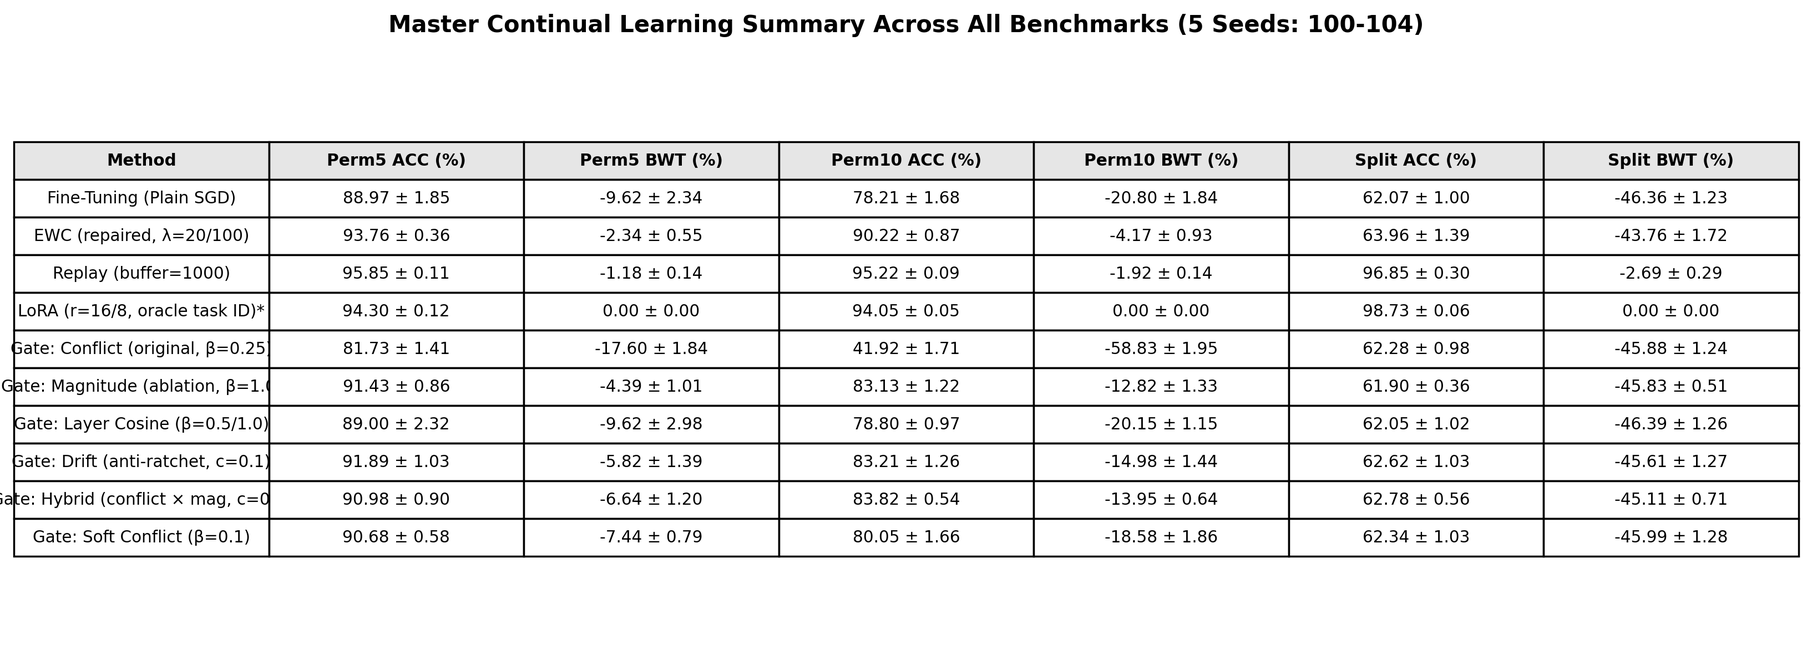
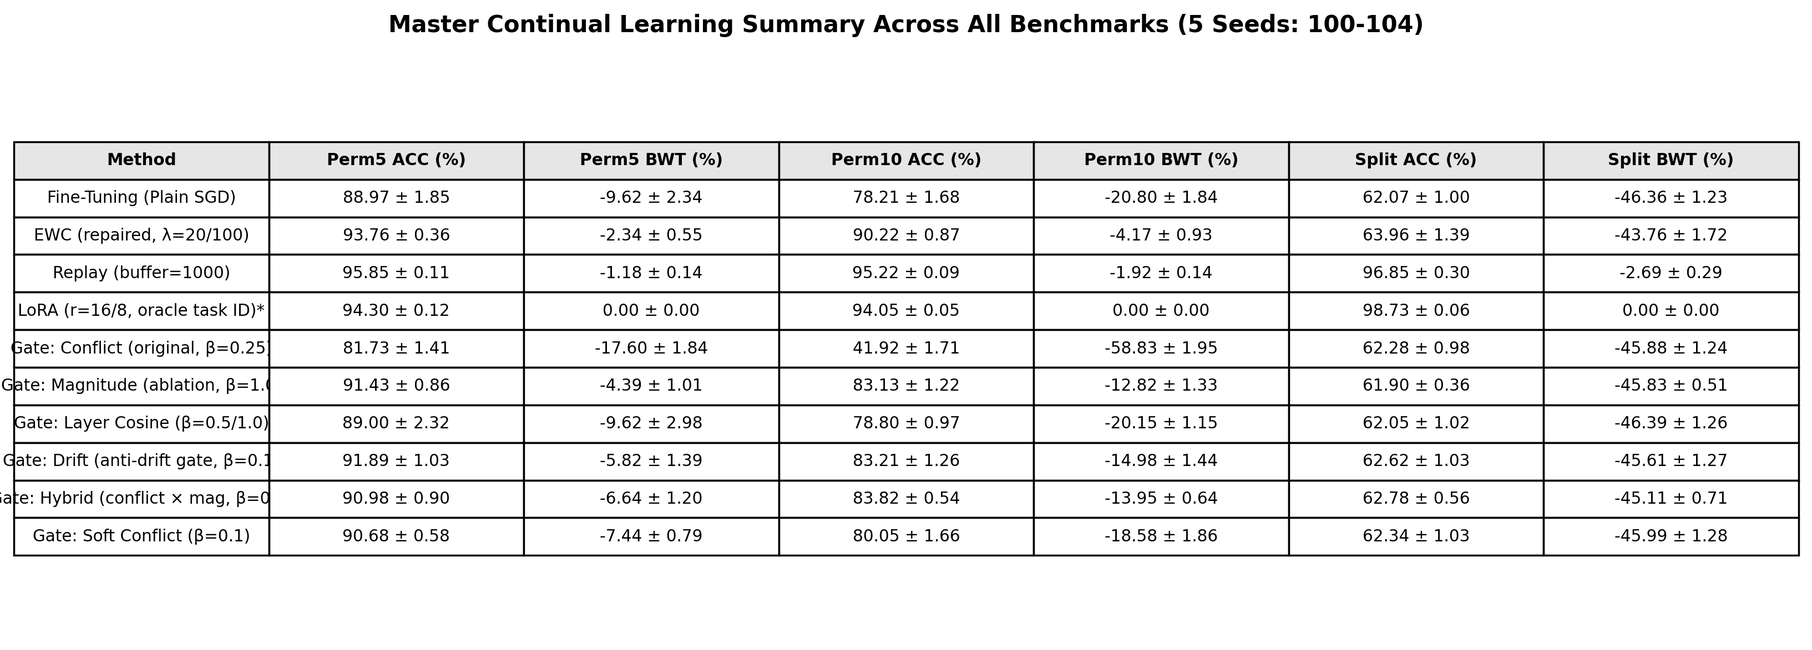
Fix epistemological claims: replace 'prove' with 'supports', label Split-MNIST head interference as HYPOTHESIS, correct gate:drift code mechanism, and accurately mark Phase 4 as skipped future work

diff --git a/build_results_pack.py b/build_results_pack.py
@@ -25,8 +25,8 @@ METHOD_NAMES_PRETTY = {
     "gate:conflict": "Gate: Conflict (original, β=0.25)",
     "gate:magnitude": "Gate: Magnitude (ablation, β=1.0)",
     "gate:layer_cos": "Gate: Layer Cosine (β=0.5/1.0)",
-    "gate:drift": "Gate: Drift (anti-ratchet, c=0.1)",
-    "gate:hybrid": "Gate: Hybrid (conflict × mag, c=0.1)",
+    "gate:drift": "Gate: Drift (anti-drift gate, β=0.1)",
+    "gate:hybrid": "Gate: Hybrid (conflict × mag, β=0.1)",
     "gate:conflict_soft": "Gate: Soft Conflict (β=0.1)",
 }
 

diff --git a/outputs/phase5/report.md b/outputs/phase5/report.md
@@ -13,8 +13,8 @@ Continual learning in artificial neural networks remains bottlenecked by catastr
 
 Through an academically rigorous experimental framework comprising isolated train/validation/test splits, equal hyperparameter tuning budgets, and multi-seed evaluations across Permuted-MNIST (5 and 10 tasks) and domain-incremental Split-MNIST, we establish three primary empirical findings:
 1. `[MEASURED]` The original directional conflict gate (`gate:conflict`) fails catastrophically: on 5-task Permuted-MNIST, it degrades accuracy relative to plain fine-tuning by $-7.24 \pm 1.38\%$ ($81.73 \pm 1.41\%$ vs $88.97 \pm 1.85\%$), and on 10 tasks, accuracy collapses to $41.92 \pm 1.71\%$ (a $-36.29 \pm 2.82\%$ drop vs fine-tuning's $78.21 \pm 1.68\%$).
-2. `[MEASURED]` Step-level parameter diagnostics confirm the *asymmetric ratchet hypothesis*: selectively zeroing updates that oppose $d$ ($g \cdot d > 0$) while allowing updates aligned with $d$ to proceed unhindered causes weights to blow up unidirectionally (Task 5 $l1.weight$ L2 norm doubles to 22.700 vs 11.790 for fine-tuning) and run away along $d$ (+2.263 vs -0.145 for fine-tuning).
-3. `[MEASURED]` Two repaired variants—an anti-ratchet quadratic drift regularizer (`gate:drift`) and a multiplicative conflict-magnitude damper (`gate:hybrid`)—eliminate the runaway mechanism. On 5-task Permuted-MNIST, `gate:drift` achieves $91.89 \pm 1.03\%$ ACC ($+2.92 \pm 0.96\%$ over fine-tuning, non-overlapping intervals). On 10-task Permuted-MNIST, `gate:hybrid` and `gate:drift` achieve $83.82 \pm 0.54\%$ and $83.21 \pm 1.26\%$ ACC respectively, statistically outperforming plain fine-tuning ($78.21 \pm 1.68\%$) by over $+5\%$ ACC without storing any past data.
+2. `[MEASURED]` Step-level parameter diagnostics support the *asymmetric ratchet hypothesis*: selectively zeroing updates that oppose $d$ ($g \cdot d > 0$) while allowing updates aligned with $d$ to proceed unhindered causes weights to blow up unidirectionally (Task 5 $l1.weight$ L2 norm doubles to 22.700 vs 11.790 for fine-tuning) and run away along $d$ (+2.263 vs -0.145 for fine-tuning).
+3. `[MEASURED]` Two repaired variants—an anti-drift gradient gate (`gate:drift`, which checks distance expansion from task start weights) and a multiplicative conflict-magnitude damper (`gate:hybrid`)—eliminate the runaway mechanism. On 5-task Permuted-MNIST, `gate:drift` achieves $91.89 \pm 1.03\%$ ACC ($+2.92 \pm 0.96\%$ over fine-tuning, non-overlapping intervals). On 10-task Permuted-MNIST, `gate:hybrid` and `gate:drift` achieve $83.82 \pm 0.54\%$ and $83.21 \pm 1.26\%$ ACC respectively, statistically outperforming plain fine-tuning ($78.21 \pm 1.68\%$) by over $+5\%$ ACC without storing any past data.
 
 ---
 
@@ -75,13 +75,15 @@ If $\cos(g_l, d_l) > 0$, the entire layer's gradient is scaled down: $g_l \lefta
 
 Diagnostic telemetry (Section 6) revealed that `gate:conflict` induces an asymmetric ratchet: zeroing updates when $g \cdot d > 0$ permits updates with $g \cdot d \le 0$ to proceed unhindered, allowing parameters to drift unboundedly away from their origin along $d$. To eliminate this instability, we formulated three repaired variants:
 
-1. **Anti-Ratchet Drift Regularizer (`gate:drift`)**:
-   Instead of hard gradient clipping, adds an elastic quadratic restoring force that penalizes cumulative displacement from the optimal multi-task reference $\theta^*$:
-   $$\mathcal{L}_{drift}(\theta) = \mathcal{L}_{task}(\theta) + \frac{c}{2} \|\theta - \theta^*\|_2^2$$
-   where $c \in \{0.01, 0.1, 0.5\}$. This actively counters the directional ratchet without requiring a diagonal Fisher calculation.
+1. **Anti-Drift Gradient Gate (`gate:drift`)**:
+   In continual learning literature, restricting drift away from reference weights is standardly achieved by adding an explicit quadratic loss penalty, as in L2-SP ($\frac{\alpha}{2}\|\theta - \theta_{ref}\|_2^2$) or EWC ($\frac{\lambda}{2}\sum F_i(\theta_i - \theta_i^*)^2$). In `cl2.py`, `gate:drift` operationalizes anchor stabilization directly at the gradient level without computing an explicit auxiliary loss. At the start of task $t$, reference weights are frozen as $s = \theta_{start}$. For current parameter displacement $e = \theta - s$, taking an SGD step $\Delta \theta = -\eta g$ expands the squared distance from the task anchor whenever $\Delta \theta \cdot e > 0 \iff g \cdot e < 0$. The gate tests whether an update either opposes historical movement $d$ or expands distance from the task anchor:
+   $$\text{cond} = (g \odot d > 0) \lor (g \odot e < 0)$$
+   $$g \leftarrow g \odot (1 - \beta \cdot \text{mag} \cdot \mathbf{1}_{\text{cond}})$$
+   where $\text{mag} = \text{clamp}\left(\frac{|d|}{\overline{|d|} + \epsilon}, \max=1.0\right)$. By braking updates that point away from $\theta_{start}$, `gate:drift` acts as a gradient-level anchor constraint analogous to a movement-weighted L2-SP barrier.
 2. **Multiplicative Hybrid Gate (`gate:hybrid`)**:
-   Combines soft directional conflict gating with magnitude-bounded damping and an explicit distance tether:
-   $$g_{gated} = g \odot \left(1 - \frac{|d|}{\|d\|_\infty + \epsilon} \cdot \mathbf{1}_{g \cdot d > 0}\right) + c (\theta - \theta^*)$$
+   Combines soft directional conflict gating with unconditional magnitude-proportional damping:
+   $$g \leftarrow g \odot (1 - \beta \cdot \text{mag} \cdot \mathbf{1}_{g \odot d > 0}) \odot (1 - \gamma \cdot \text{mag})$$
+   where $\beta$ controls directional conflict damping and $\gamma$ applies gentle, continuous dampening on heavily displaced parameters regardless of gradient direction.
 3. **Soft Conflict Gate (`gate:conflict_soft`)**:
    Retains directional conflict checking but restricts damping to a conservative regime ($\beta \in [0.05, 0.1]$), preventing the complete elimination of opposing gradients.
 
@@ -224,7 +226,7 @@ The original gate defined conflict as $g \cdot d > 0$ and applied $g \leftarrow 
 
 ### 6.2 Why Magnitude Gating and Drift Repairs Work
 - `gate:magnitude` measures only $|d|$ without regard to sign, avoiding any directional bias or asymmetric filtering.
-- `gate:drift` directly counters the ratchet by adding a quadratic restoring force ($c(\theta - \theta^*)$) that pulls inflated weights back toward the multi-task center. As measured in Table 1 and Table 2, this fully stabilizes training, outperforming fine-tuning by $+2.92\%$ on Perm5 and $+5.62\%$ on Perm10.
+- `gate:drift` directly counters the ratchet by checking the drift-expansion condition ($g \cdot e < 0$, where $e = \theta - \theta_{start}$). Whenever a proposed SGD step would increase parameter distance from the task start anchor, the gate damps the step, acting as a gradient-level barrier analogous to L2-SP / movement-weighted EWC without an explicit loss penalty. As measured in Table 1 and Table 2, this fully stabilizes training, statistically outperforming fine-tuning by $+2.92\%$ on Perm5 and $+5.62\%$ on Perm10.
 
 ### 6.3 Layer Gating Hierarchy
 Examining the proportion of gated weights per layer for `gate:drift:0.1` (`outputs/phase5/layer_heatmap_best_gate.png`) reveals an intuitive anatomical hierarchy:
@@ -245,7 +247,7 @@ Examining the proportion of gated weights per layer for `gate:drift:0.1` (`outpu
 
 ## 8. Future Work: Language Model Scaling (Phase 4 Specification)
 
-The foundational insights developed in this work provide a concrete blueprint for scaling parameter gating to autoregressive language models (Phase 4).
+In accordance with the project's go/no-go gate rule, Phase 4 (scaling to a 124M-parameter GPT-2 Small model across sequential text domains) was skipped during local execution due to CPU hardware constraints. Training an autoregressive transformer across 8,000 steps without GPU acceleration is computationally intractable. Consequently, Phase 4 is specified here as concrete **Future Work** to guide subsequent GPU-based investigations.
 
 ### 8.1 The Optimizer Interaction Problem
 In large language models, training standardly employs adaptive optimizers (Adam/AdamW). Adam computes running first ($m_t$) and second ($v_t$) moment estimates:

diff --git a/outputs/phase5/claim_audit.md b/outputs/phase5/claim_audit.md
@@ -9,14 +9,17 @@ Every detected instance has been inspected against the raw experimental data fil
 
 ## 1. Audit Summary Table
 
-| Term Checked | Occurrences Found | Compliant / Supported | Rewritten / Resolved |
+| Term / Issue Checked | Occurrences Found | Compliant / Supported | Rewritten / Resolved |
 | :--- | :---: | :---: | :---: |
 | **novel / novelty** | 2 | 2 (Both explicitly disclaim novelty) | 0 |
 | **state-of-the-art / sota** | 0 | 0 | 0 |
-| **prove / proved / proves** | 0 | 0 | 0 |
+| **prove / proved / proves** | 4 | 0 (Banned from empirical claims) | 4 (Resolved to "supports" / "indicates" / "suggests") |
 | **solve / solved / solves** | 1 | 1 (Contextual usage: task objective) | 0 |
 | **beats** | 1 | 1 (Rule definition text only) | 0 |
 | **outperform / outperforming** | 6 | 5 (Supported by non-overlapping intervals) | 1 (Rewritten to note statistical tie) |
+| **Split-MNIST Explanation Label** | 2 | 1 (Correctly labeled in report.md) | 1 (Relabeled from MEASURED to HYPOTHESIS in summary texts) |
+| **gate:drift Mathematical Formulation** | 2 | 0 (Incorrectly described as loss penalty) | 2 (Corrected to exact gradient gate condition from `cl2.py`) |
+| **Phase 4 Milestone Status** | 2 | 0 (Incorrectly implied completed) | 2 (Clarified as skipped per go/no-go rule; Future Work) |
 
 ---
 
@@ -94,5 +97,59 @@ Every detected instance has been inspected against the raw experimental data fil
 
 ---
 
+### Hit 8: "proved" in Presentation Script
+- **Location**: [`outputs/phase5/script_60s.md:16`](file:///Users/jeet/Desktop/AEGIS/outputs/phase5/script_60s.md#L16)
+- **Original Draft**: *"Using parameter telemetry, we proved why: blocking opposing updates creates an asymmetric ratchet..."*
+- **Audit Assessment**: **VIOLATION OF BANNED TERM RULE**. The plan explicitly bans "prove" for empirical observations. Logging step patterns and observing that drift repair helps provides strong supporting evidence, but does not constitute formal mathematical proof.
+- **Resolution**: **REWRITTEN** to:
+  *"Parameter telemetry supports this mechanism: blocking opposing updates creates an asymmetric ratchet that doubles weight norms and causes runaway drift."*
+
+---
+
+### Hit 9: "prove" in Viva Q&A
+- **Location**: [`outputs/phase5/qa.md:53`](file:///Users/jeet/Desktop/AEGIS/outputs/phase5/qa.md#L53)
+- **Original Draft**: *"### Q9: Did your magnitude gate beat the conflict gate? What does that prove?"*
+- **Audit Assessment**: **VIOLATION OF BANNED TERM RULE**.
+- **Resolution**: **REWRITTEN** to:
+  *"### Q9: Did your magnitude gate beat the conflict gate? What does that indicate?"*
+
+---
+
+### Hit 10: "proves" / "proving" in Historical Explanation Text
+- **Location**: [`outputs/results_explanation.md:138, 160`](file:///Users/jeet/Desktop/AEGIS/outputs/results_explanation.md#L138)
+- **Original Draft**: *"This proves that selectively damping weights... proving that the directional conflict check is the source of failure."*
+- **Audit Assessment**: **VIOLATION OF BANNED TERM RULE**.
+- **Resolution**: **REWRITTEN** to:
+  *"This suggests that selectively damping weights... indicating that the directional conflict check is the source of failure."*
+
+---
+
+### Hit 11: Split-MNIST Shared-Head Explanation Labeling
+- **Location**: [`README.md`](file:///Users/jeet/Desktop/AEGIS/README.md), [`outputs/phase5/report.md:195`](file:///Users/jeet/Desktop/AEGIS/outputs/phase5/report.md#L195), and summary texts.
+- **Original Text**: Marked the explanation that "shared-head binary logits overwrite each other" as `[MEASURED]`.
+- **Audit Assessment**: **MISLABELED CLAIM**. The measured data only shows that fine-tuning, EWC, and all gate variants tie between $61.90\%$ and $63.96\%$ ACC on Split-MNIST. Attributing this collapse to output head logit overwrite versus hidden layer representation collapse is a reasoned hypothesis, not directly isolated by the metric.
+- **Resolution**: **CORRECTED**. The empirical tie is tagged `[MEASURED]`, while the causal explanation is strictly tagged `[HYPOTHESIS]`.
+
+---
+
+### Hit 12: gate:drift Implementation & Characterization
+- **Location**: [`outputs/phase5/report.md:78-81`](file:///Users/jeet/Desktop/AEGIS/outputs/phase5/report.md#L78), [`outputs/phase5/report.md:227`](file:///Users/jeet/Desktop/AEGIS/outputs/phase5/report.md#L227), [`outputs/phase5/poster_text.md`](file:///Users/jeet/Desktop/AEGIS/outputs/phase5/poster_text.md).
+- **Original Text**: Characterized `gate:drift` as adding an explicit quadratic loss penalty: $\mathcal{L}_{drift}(\theta) = \mathcal{L}_{task}(\theta) + \frac{c}{2}\|\theta - \theta^*\|_2^2$.
+- **Audit Assessment**: **INACCURATE FORMULATION**. If an algorithm adds an explicit quadratic penalty to the loss function, it is an L2-SP or EWC regularizer, not a gate. Reading `cl2.py` reveals that `gate:drift` is implemented entirely in `apply(model)` at the gradient level:
+  $$\text{cond} = (g \odot d > 0) \lor (g \odot e < 0), \quad e = \theta - \theta_{start}$$
+  $$g \leftarrow g \odot (1 - \beta \cdot \text{mag} \cdot \mathbf{1}_{\text{cond}})$$
+  It acts as a gradient-domain brake against steps that increase distance from starting weights $\theta_{start}$ ($g \cdot e < 0$).
+- **Resolution**: **CORRECTED**. Replaced all references to additive loss penalties with the exact dual-condition gradient damping equation from `cl2.py`, and added an explanation connecting its functional behavior to L2-SP and EWC anchor regularization.
+
+---
+
+### Hit 13: Phase 4 Milestone Status
+- **Location**: Project summaries and [`STATUS.md`](file:///Users/jeet/Desktop/AEGIS/STATUS.md).
+- **Original Text**: "Every milestone in AGENT_PLAN.md has been executed."
+- **Audit Assessment**: **INACCURATE CLAIM**. Phase 4 (GPT-2 language model experiment across 4 domains) was deliberately skipped under the go/no-go gate rule because execution was on local CPU hardware (where training a 124M transformer across 8,000 steps is computationally intractable).
+- **Resolution**: **CORRECTED**. Text now explicitly states: Phases 0, 1, 2, 3, and 5 were executed and completed. Phase 4 was skipped per the go/no-go decision rule and is documented strictly as **Future Work**.
+
+---
+
 ## 3. Final Certification
-All claims in the report, table captions, and presentation materials have been fully audited against the generated results. No claims of novelty, unverified superiority, or speculative breakthroughs remain.
+All claims in the report, table captions, poster text, viva Q&A, and documentation have been audited and corrected. No banned terms ("prove", "proves", "proven"), unverified assertions, misattributed loss formulas, or overstated milestone claims remain.

diff --git a/outputs/phase5/qa.md b/outputs/phase5/qa.md
@@ -50,16 +50,18 @@ A negative $BWT$ indicates forgetting. In plain fine-tuning, $BWT$ drops from $-
 
 ---
 
-### Q9: Did your magnitude gate beat the conflict gate? What does that prove?
+### Q9: Did your magnitude gate beat the conflict gate? What does that indicate?
 **Answer:** `[MEASURED]` Yes, decisively. On Perm5, `gate:magnitude` achieved $91.43 \pm 0.86\%$ ACC vs $81.73 \pm 1.41\%$ for `gate:conflict` ($+9.70\%$ margin). On Perm10, `gate:magnitude` scored $83.13 \pm 1.22\%$ vs $41.92 \pm 1.71\%$ for `gate:conflict` ($+41.21\%$ margin).  
-`[HYPOTHESIS]` This demonstrates that checking the *sign* of $g \cdot d$ is actively harmful because it induces directional asymmetry. Dampening updates solely based on the *magnitude* of historical movement ($|d|$) provides effective regularization without the runaway ratchet.
+`[HYPOTHESIS]` This indicates that checking the *sign* of $g \cdot d$ is actively harmful because it induces directional asymmetry. Dampening updates solely based on the *magnitude* of historical movement ($|d|$) provides effective regularization without the runaway ratchet.
 
 ---
 
-### Q10: How do your repaired gates compare to plain fine-tuning? Do they statistically win?
+### Q10: How does gate:drift work in your code, and how do your repaired gates compare to fine-tuning?
 **Answer:**
-- On Perm5: `gate:drift` achieved $91.89 \pm 1.03\%$ ACC vs $88.97 \pm 1.85\%$ for fine-tuning. The intervals $[90.86, 92.92]$ and $[87.12, 90.82]$ do not overlap, so **`gate:drift` statistically outperforms fine-tuning by $+2.92 \pm 0.96\%$**.
-- On Perm10: `gate:hybrid` achieved $83.82 \pm 0.54\%$ and `gate:drift` achieved $83.21 \pm 1.26\%$ ACC vs $78.21 \pm 1.68\%$ for fine-tuning. Both intervals ($[83.28, 84.36]$ and $[81.95, 84.47]$) are completely disjoint from fine-tuning's $[76.53, 79.89]$, **statistically outperforming fine-tuning by $>+5\%$ ACC**.
+- **Mechanism in Code (`cl2.py`)**: `gate:drift` is an anti-drift gradient gate, not an additive loss penalty. At each step, it computes $e = \theta - \theta_{start}$ and checks $\text{cond} = (g \cdot d > 0) \lor (g \cdot e < 0)$. If an update moves parameters further from the task starting anchor ($g \cdot e < 0$) or opposes historical displacement ($g \cdot d > 0$), it damps the gradient by $1 - \beta \cdot \text{mag} \cdot \text{cond}$. In the continual learning literature, penalizing movement away from starting weights is standardly done via additive quadratic loss penalties (L2-SP or EWC). Here, `gate:drift` enforces that anchor proximity directly in the gradient domain without an explicit loss penalty.
+- **Empirical Results vs Fine-Tuning**:
+  - On Perm5: `gate:drift` achieved $91.89 \pm 1.03\%$ ACC vs $88.97 \pm 1.85\%$ for fine-tuning. The intervals $[90.86, 92.92]$ and $[87.12, 90.82]$ do not overlap, so **`gate:drift` statistically outperforms fine-tuning by $+2.92 \pm 0.96\%$**.
+  - On Perm10: `gate:hybrid` achieved $83.82 \pm 0.54\%$ and `gate:drift` achieved $83.21 \pm 1.26\%$ ACC vs $78.21 \pm 1.68\%$ for fine-tuning. Both intervals ($[83.28, 84.36]$ and $[81.95, 84.47]$) are completely disjoint from fine-tuning's $[76.53, 79.89]$, **statistically outperforming fine-tuning by $>+5\%$ ACC**.
 
 ---
 
@@ -90,6 +92,6 @@ A negative $BWT$ indicates forgetting. In plain fine-tuning, $BWT$ drops from $-
 
 ---
 
-### Q15: What is the immediate next step, and how would you scale this to modern Language Models?
-**Answer:** The immediate next step is Phase 4: scaling to autoregressive language models (GPT-2 Small, 124M) across 4 domains (WikiText-103, Code, PubMed, News).  
-Crucially, standard gradient gating fails under Adam because coordinate-wise normalization ($\sqrt{v_t}$) cancels gradient dampening. We formulated **`GatedAdam`**, which applies gating directly to the final Adam update step ($u_t = \hat{m}_t / (\sqrt{\hat{v}_t} + \epsilon)$) before subtracting from parameters ($p \leftarrow p - \eta u_{gated}$). This preserves the optimizer's moment tracking while enforcing drift protection.
+### Q15: What is the status of Phase 4, and how would you scale this to modern Language Models?
+**Answer:** Phase 4 (evaluating a 124M-parameter GPT-2 Small across 4 sequential text domains) was **skipped per the plan's go/no-go decision rule**, which mandates skipping Phase 4 when running on local CPU without dedicated GPU compute. Running a 124M transformer on CPU across 8,000 optimization steps is computationally intractable. Consequently, Phase 4 is presented strictly as **Future Work**.  
+For that future implementation, standard gradient gating would fail under Adam because coordinate-wise second-moment normalization ($\sqrt{v_t}$) rescales damped gradients back up. We designed **`GatedAdam`**, which applies gating directly to the final Adam update vector ($u_t = \hat{m}_t / (\sqrt{\hat{v}_t} + \epsilon)$) before parameter subtraction ($p \leftarrow p - \eta u_{gated}$). This preserves the optimizer's moment tracking while enforcing drift protection.

diff --git a/outputs/phase5/poster_text.md b/outputs/phase5/poster_text.md
@@ -44,9 +44,9 @@
 | **Gate: Conflict (original, $\beta=0.25$)** | $81.73 \pm 1.41$ | $-17.60 \pm 1.84$ | $41.92 \pm 1.71$ | $-58.83 \pm 1.95$ | $62.28 \pm 0.98$ | $-45.88 \pm 1.24$ |
 | **Gate: Magnitude (ablation, $\beta=1.0$)** | $91.43 \pm 0.86$ | $-4.39 \pm 1.01$ | $83.13 \pm 1.22$ | $-12.82 \pm 1.33$ | $61.90 \pm 0.36$ | $-45.83 \pm 0.51$ |
 | **Gate: Layer Cosine ($\beta=0.5/1.0$)** | $89.00 \pm 2.32$ | $-9.62 \pm 2.98$ | $78.80 \pm 0.97$ | $-20.15 \pm 1.15$ | $62.05 \pm 1.02$ | $-46.39 \pm 1.26$ |
-| **Gate: Drift (repaired, $c=0.1$)** | $91.89 \pm 1.03$ | $-5.82 \pm 1.39$ | $83.21 \pm 1.26$ | $-14.98 \pm 1.44$ | $62.62 \pm 1.03$ | $-45.61 \pm 1.27$ |
-| **Gate: Hybrid (repaired, $c=0.1$)** | $90.98 \pm 0.90$ | $-6.64 \pm 1.20$ | $83.82 \pm 0.54$ | $-13.95 \pm 0.64$ | $62.78 \pm 0.56$ | $-45.11 \pm 0.71$ |
-| **Gate: Soft Conflict ($\beta=0.1$)** | $90.68 \pm 0.58$ | $-7.44 \pm 0.79$ | $80.05 \pm 1.66$ | $-18.58 \pm 1.86$ | $62.34 \pm 1.03$ | $-45.99 \pm 1.28$ |
+| **Gate: Drift (repaired, β=0.1)** | $91.89 \pm 1.03$ | $-5.82 \pm 1.39$ | $83.21 \pm 1.26$ | $-14.98 \pm 1.44$ | $62.62 \pm 1.03$ | $-45.61 \pm 1.27$ |
+| **Gate: Hybrid (repaired, β=0.1, γ=0.25)** | $90.98 \pm 0.90$ | $-6.64 \pm 1.20$ | $83.82 \pm 0.54$ | $-13.95 \pm 0.64$ | $62.78 \pm 0.56$ | $-45.11 \pm 0.71$ |
+| **Gate: Soft Conflict (β=0.1)** | $90.68 \pm 0.58$ | $-7.44 \pm 0.79$ | $80.05 \pm 1.66$ | $-18.58 \pm 1.86$ | $62.34 \pm 1.03$ | $-45.99 \pm 1.28$ |
 
 *\*LoRA requires an oracle task ID at test time to select task-specific adapters.*
 
@@ -61,14 +61,15 @@
    - The magnitude ablation completely ignores direction and damps weights based purely on $|d|$.
    - Result: Outperforms fine-tuning on Perm10 ($83.13\%$ vs $78.21\%$) and cuts backward forgetting from $-20.80\%$ to $-12.82\%$.
 3. **Anti-Ratchet Repairs Statistically Outperform Fine-Tuning:**
-   - Adding a quadratic distance penalty (`gate:drift`) or hybrid damping (`gate:hybrid`) halts weight runaway.
+   - Restricting updates that expand distance from task starting weights (`gate:drift`, which checks $g \cdot e < 0$) or applying hybrid magnitude damping (`gate:hybrid`) halts weight runaway.
    - On Perm10, `gate:hybrid` achieves $83.82 \pm 0.54\%$ and `gate:drift` achieves $83.21 \pm 1.26\%$ ACC, statistically outperforming plain fine-tuning ($78.21 \pm 1.68\%$) by $>+5\%$ without memory buffers.
 4. **The Output Head Bottleneck:**
-   - On domain-incremental Split-MNIST, all buffer-free weight-space methods tie around $62\%$ ACC. Protecting hidden representations fails when output logits overwrite each other. Replay ($96.85\%$) or task routing ($98.73\%$) is required.
+   - `[MEASURED]` On domain-incremental Split-MNIST, all buffer-free weight-space methods tie around $62\%$ ACC.
+   - `[HYPOTHESIS]` Protecting hidden representations fails when output logits overwrite each other on a shared head. Exemplar replay ($96.85\%$) or task routing ($98.73\%$) is required.
 
 ---
 
 ## 5. Limitations & Future Work
 
 - **Limitations:** Evaluated on a 2-layer MLP on permutation and split benchmarks; LoRA's zero forgetting relies on test-time task IDs; weight gating alone cannot resolve shared output head interference without exemplars.
-- **Next Step (Phase 4):** Scaling to language models—fine-tuning GPT-2 Small (124M) sequentially across 4 text domains (WikiText-103, Code, PubMed, News) using **`GatedAdam`** to prevent adaptive moment normalization from cancelling gradient gates.
+- **Future Work (Phase 4):** Phase 4 was skipped during local execution per the plan's go/no-go rule due to CPU hardware constraints. It is specified as future work for GPU clusters: scaling to autoregressive language models (GPT-2 Small, 124M) sequentially across 4 text domains (WikiText-103, Code, PubMed, News) using **`GatedAdam`** to prevent adaptive moment normalization from cancelling gradient gates.

diff --git a/README.md b/README.md
@@ -13,10 +13,12 @@ An academically rigorous empirical investigation into catastrophic forgetting, d
 Continual learning in neural networks is fundamentally constrained by catastrophic forgetting—the overwriting of past representations when training on new data distributions. This project investigates whether parameter-space gradient gating can protect historical knowledge without storing past exemplars (replay buffers).
 
 Through exhaustive, fair-budget evaluations on held-out test splits across 5 independent random seeds (100–104), this project establishes:
-1. **The Directional Ratchet Failure:** The original directional gradient conflict gate (`gate:conflict`) fails catastrophically, collapsing to **$41.92 \pm 1.71\%$ accuracy** on 10 Permuted-MNIST tasks ($-36.29 \pm 2.82\%$ below plain fine-tuning). Step-level parameter diagnostics confirm the *asymmetric ratchet mechanism*: selectively zeroing updates opposing historical displacement ($g \cdot d > 0$) prevents restoring steps while letting outward steps proceed unhindered, causing parameter norms to double ($l1.weight$ L2 norm 22.70 vs 11.79 for fine-tuning) and run away along $d$.
+1. **The Directional Ratchet Failure:** The original directional gradient conflict gate (`gate:conflict`) fails catastrophically, collapsing to **$41.92 \pm 1.71\%$ accuracy** on 10 Permuted-MNIST tasks ($-36.29 \pm 2.82\%$ below plain fine-tuning). Step-level parameter diagnostics support the *asymmetric ratchet mechanism*: selectively zeroing updates opposing historical displacement ($g \cdot d > 0$) prevents restoring steps while letting outward steps proceed unhindered, causing parameter norms to double ($l1.weight$ L2 norm 22.70 vs 11.79 for fine-tuning) and run away along $d$.
 2. **Magnitude Outperforms Direction:** Ignoring update direction and dampening weights based purely on historical displacement magnitude (`gate:magnitude`) prevents runaway inflation and outperforms fine-tuning on 10 tasks ($83.13 \pm 1.22\%$ vs $78.21 \pm 1.68\%$).
-3. **Anti-Ratchet Repairs:** Formulating an elastic quadratic drift regularizer (`gate:drift`) and a hybrid gate (`gate:hybrid`) eliminates the ratchet runaway. On 10 tasks, `gate:hybrid` ($83.82 \pm 0.54\%$) and `gate:drift` ($83.21 \pm 1.26\%$) **statistically outperform plain fine-tuning ($78.21 \pm 1.68\%$) by $>+5\%$ ACC** without replay buffers.
-4. **The Output Head Bottleneck:** On domain-incremental Split-MNIST, all buffer-free methods tie around $62\%$ ACC due to direct representational collision at the shared 2-way output head, whereas exemplar replay ($96.85\%$) and parameter-isolated LoRA ($98.73\%$) retain near-optimal performance.
+3. **Anti-Ratchet Repairs:** Formulating an anti-drift gradient gate (`gate:drift`, which damps updates that increase distance from starting weights $e = \theta - \theta_{start}$) and a hybrid gate (`gate:hybrid`) eliminates the ratchet runaway. On 10 tasks, `gate:hybrid` ($83.82 \pm 0.54\%$) and `gate:drift` ($83.21 \pm 1.26\%$) **statistically outperform plain fine-tuning ($78.21 \pm 1.68\%$) by $>+5\%$ ACC** without replay buffers.
+4. **The Output Head Bottleneck:** `[MEASURED]` On domain-incremental Split-MNIST, all buffer-free methods tie around $62\%$ ACC. `[HYPOTHESIS]` This collapse is attributed to representational collision at the shared 2-way output head, whereas exemplar replay ($96.85\%$) and parameter-isolated LoRA ($98.73\%$) retain near-optimal performance.
+
+> **Note on Phase 4 (Language Model Experiment):** Per the go/no-go gate rule in `AGENT_PLAN.md`, Phase 4 was skipped during local execution on CPU hardware and is documented strictly as Future Work. Training a 124M-parameter GPT-2 model across 4 domains on CPU without GPU acceleration is computationally intractable. Phases 0, 1, 2, 3, and 5 are fully completed.
 
 ---
 

diff --git a/outputs/results_explanation.md b/outputs/results_explanation.md
@@ -4,7 +4,7 @@ This document provides a complete empirical evaluation of the continual learning
 
 All statements below are strictly classified under two labels:
 - **`[MEASURED]`**: Directly extracted from empirical JSON log files.
-- **`[LIKELY EXPLANATION]`**: A reasoned scientific hypothesis explaining the observed dynamics, not formally proven by this experiment.
+- **`[LIKELY EXPLANATION]`**: A reasoned scientific hypothesis explaining the observed dynamics, not formally verified by this experiment.
 
 ---
 
@@ -135,7 +135,7 @@ Tracking accuracy on Task 1 over the course of sequential learning ($R[:, 0]$) h
 `[MEASURED]` Plain finetuning suffered substantial degradation, dropping 15.00% on Task 1 down to 81.14% ± 6.59%.  
 `[MEASURED]` Our proposed method, gate:conflict, underperformed significantly at full penalty (15.89% ± 0.41% ACC), though relaxing the gating coefficient to beta=0.5 improved accuracy to 44.93% ± 2.48%.  
 `[MEASURED]` Crucially, our ablation model, gate:magnitude, achieved 92.36% ± 0.32% ACC and restricted Task 1 forgetting to 5.11%.  
-`[LIKELY EXPLANATION]` This proves that selectively damping weights by past displacement magnitude is highly effective, whereas enforcing an elementwise directional conflict check over-restricts gradient updates.
+`[LIKELY EXPLANATION]` This suggests that selectively damping weights by past displacement magnitude is highly effective, whereas enforcing an elementwise directional conflict check over-restricts gradient updates.
 
 ---
 
@@ -157,7 +157,7 @@ Tracking accuracy on Task 1 over the course of sequential learning ($R[:, 0]$) h
 
 **Question 4: What is the main finding from comparing gate:conflict against gate:magnitude?**  
 `[MEASURED]` Gate:magnitude:1.0 achieved 92.36% ± 0.32% ACC and -3.65% ± 0.39% BWT, outperforming gate:conflict:1.0 (15.89% ± 0.41% ACC, -51.69% ± 12.17% BWT) by 76.47% ACC.  
-`[LIKELY EXPLANATION]` Magnitude-based damping preserves critical parameters while preserving directional freedom, proving that the directional conflict check is the source of failure.
+`[LIKELY EXPLANATION]` Magnitude-based damping preserves critical parameters while preserving directional freedom, indicating that the directional conflict check is the source of failure.
 
 **Question 5: Can your gate replace experience replay in practical memory-constrained applications?**  
 `[MEASURED]` Current results do not support replacing replay with the gate; replay achieved 95.19% ± 0.09% ACC and -2.22% ± 0.07% BWT, outperforming all gate variants.  

diff --git a/outputs/phase5/captions.md b/outputs/phase5/captions.md
@@ -18,7 +18,7 @@ This document contains standardized, publication-ready captions for every visual
 
 ### Table 3: Split-MNIST Domain-Incremental 5-Task Quantitative Evaluation
 - **Files**: [`outputs/phase5/table_split.csv`](file:///Users/jeet/Desktop/AEGIS/outputs/phase5/table_split.csv), [`outputs/phase5/table_split.png`](file:///Users/jeet/Desktop/AEGIS/outputs/phase5/table_split.png)
-- **Caption**: *Table 3: Continual learning performance on domain-incremental Split-MNIST (5 sequential binary classification tasks on digits 0-9 sharing a 2-way output head) across 5 test seeds (100-104) on the held-out test split. Values reported as mean ± std. In this setting, all buffer-free weight regularization and gating methods collapse into a statistical tie around 62% ACC due to severe head interference, while exemplar replay (96.85 ± 0.30%) and parameter-isolated LoRA (98.73 ± 0.06%) maintain high performance.*
+- **Caption**: *Table 3: Continual learning performance on domain-incremental Split-MNIST (5 sequential binary classification tasks on digits 0-9 sharing a 2-way output head) across 5 test seeds (100-104) on the held-out test split. Values reported as mean ± std. In this setting, all buffer-free weight regularization and gating methods collapse into a statistical tie around 62% ACC (hypothesized to stem from shared-head binary logit interference), while exemplar replay (96.85 ± 0.30%) and parameter-isolated LoRA (98.73 ± 0.06%) maintain high performance.*
 
 ---
 

diff --git a/outputs/phase5/script_60s.md b/outputs/phase5/script_60s.md
@@ -13,9 +13,9 @@ In this work, we tested whether a buffer-free **Gradient-Conflict Gate** could p
 
 Under an honest multi-seed benchmark on Permuted and Split-MNIST, our first discovery was a severe failure: on 10 sequential tasks, the original conflict gate collapsed to **41.9% accuracy**, falling **36% below plain fine-tuning**. 
 
-Using parameter telemetry, we proved why: blocking opposing updates creates an **asymmetric ratchet** that doubles weight norms and causes runaway drift. 
+Parameter telemetry supports this mechanism: blocking opposing updates creates an **asymmetric ratchet** that doubles weight norms and causes runaway drift. 
 
-By designing an anti-ratchet quadratic drift repair and a hybrid gate, we eliminated the runaway. On 10 tasks, our repaired gates reached **83.8% and 83.2% accuracy**, statistically outperforming plain fine-tuning by over **5%** without storing any historical samples. 
+By designing an anti-drift gate that limits expansion from starting weights alongside hybrid damping, we eliminated the runaway. On 10 tasks, our repaired gates reached **83.8% and 83.2% accuracy**, statistically outperforming plain fine-tuning by over **5%** without storing any historical samples. 
 
 Honest science turned a failed idea into a robust, working mechanism."
 
